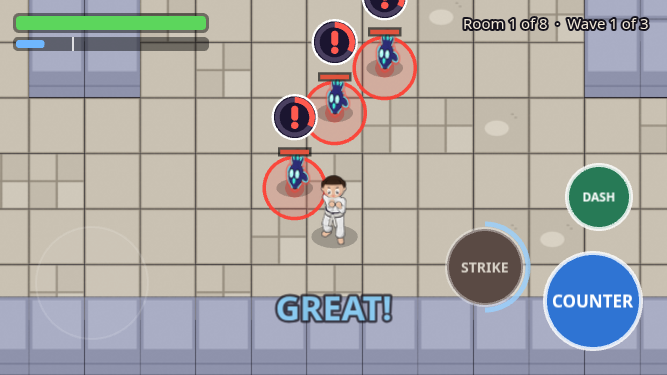
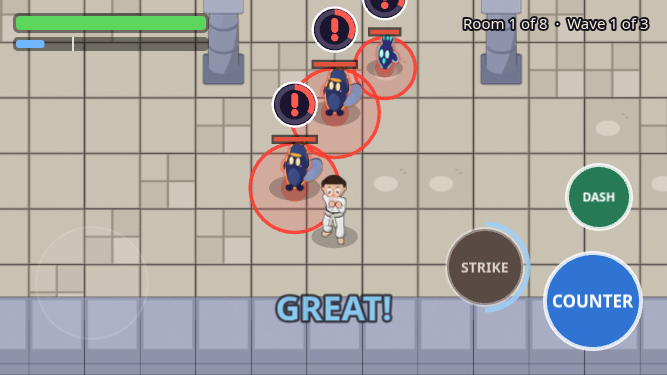
FX-GREAT QA fix: never on a ! cue (tiered placement, hide while a ! is under it, older word makes way)

diff --git a/apps/client/src/scenes/GameScene.ts b/apps/client/src/scenes/GameScene.ts
@@ -109,7 +109,7 @@ import { CONTENT } from '../game/content';
 import { homeDojo } from '../game/dojo';
 import { NAMED_PACK, NamedView } from '../game/named';
 import { reducedMotion } from '../game/motion';
-import { RATING, ratingWordTop } from '../ui/ratingWord';
+import { RATING, overlaps, ratingWordTop } from '../ui/ratingWord';
 import { THROWN_LOOK, getUpAngle, thrownPose } from '../ui/thrownPose';
 import { drawPatternTell } from '../game/patternTells';
 import { loadSave, writeSave } from '../game/save';
@@ -309,6 +309,8 @@ export class GameScene extends Phaser.Scene {
   private afterHelpUp: (() => void) | null = null;
   /** Live floating texts and pop words, cleared when the hero goes down (Q-PREM-F4). */
   private popups = new Set<Phaser.GameObjects.Text>();
+  /** FX-GREAT: popWord's words on screen; the praise ones hide while a "!" cue is under them. */
+  private words = new Set<Phaser.GameObjects.Text>();
   /** Tutorial floor (K24a): where the step flow is, the tip's Got it button, and the success line to lead the next tip. */
   private tflow: TutorialFlow | null = null;
   private gotItBtn: Phaser.GameObjects.Text | null = null;
@@ -545,6 +547,7 @@ export class GameScene extends Phaser.Scene {
       this.afterHelpUp?.();
     });
     this.popups.clear();
+    this.words.clear();
     this.heroPops = [];
     this.leaving = false;
     this.picker = null;
@@ -721,6 +724,7 @@ export class GameScene extends Phaser.Scene {
     this.frameBoss();
     this.syncEnemyViews();
     for (const e of this.world.enemies) this.drawEnemy(e, blend, now);
+    this.hideWordsOverCues();
     this.buttons.counterWindow(this.counterWindowOpen);
 
     this.buttons.update(p);
@@ -2667,18 +2671,34 @@ export class GameScene extends Phaser.Scene {
     }
     const c = this.room.chest;
     if (c && this.chestImgs[0]?.alpha) boxes.push(toScreen((c.x - 0.6) * TILE, (c.y - 0.7) * TILE, (c.x + 0.6) * TILE, (c.y + 0.6) * TILE));
-    // K24b: the wind-up cue ("!" in a ring) over an enemy about to attack.
-    for (const e of this.world.enemies) {
-      const v = e.mode === 'windup' ? this.enemyViews.get(e.id) : undefined;
-      if (!v) continue;
-      const at = this.windupCueSpot(v.container.x, v.container.y, v.top, e.def.radius * TILE);
-      boxes.push(toScreen(at.x - 22, at.y - 22, at.x + 22, at.y + 22));
-    }
+    boxes.push(...this.cueBoxes());
     if (withMessage && this.message.visible) {
       const m = this.message.getBounds();
       boxes.push({ x0: m.left, x1: m.right, y0: m.top, y1: m.bottom });
     }
     return boxes;
+  }
+
+  /** FX-GREAT: a "!" that turns up (or walks) under a praise word is never hidden; the word hides until it's clear. */
+  private hideWordsOverCues(): void {
+    if (this.words.size === 0) return;
+    const cues = this.cueBoxes();
+    for (const t of this.words) {
+      if (t.style.color !== RATING.color) continue;
+      const b = t.getBounds();
+      t.setVisible(!cues.some((c) => overlaps(c, { x0: b.left, x1: b.right, y0: b.top, y1: b.bottom })));
+    }
+  }
+
+  /** K24b: screen boxes of the wind-up cues ("!" in a ring) over enemies about to attack. */
+  private cueBoxes(): { x0: number; x1: number; y0: number; y1: number }[] {
+    return this.world.enemies.flatMap((e) => {
+      const v = e.mode === 'windup' ? this.enemyViews.get(e.id) : undefined;
+      if (!v) return [];
+      const at = this.windupCueSpot(v.container.x, v.container.y, v.top, e.def.radius * TILE);
+      const b = this.toScreen({ left: at.x - 22, right: at.x + 22, top: at.y - 22, bottom: at.y + 22 });
+      return [{ x0: b.left, x1: b.right, y0: b.top, y1: b.bottom }];
+    });
   }
 
   /** Q-PREMIUM-2 M7: true when a door label's screen box touches a loot or decoration toast. */
@@ -3402,28 +3422,26 @@ export class GameScene extends Phaser.Scene {
       .setAlpha(rating ? RATING.alpha : 1);
     this.cameras.main.ignore(t);
     // K23c: keep off the doors, the chest, the centre message, Sensei's banner and the 'Room clear!' line.
-    // FX-GREAT: and off every enemy, "!" cue (protectedBoxes has the cues), the hero and the action buttons.
+    // FX-GREAT: and off, in this order of importance, every "!" cue, enemy, other word (e.g. "Wave 2"), the hero and buttons.
     const rm = reducedMotion();
     const drift = rm ? 0 : 20;
-    const boxes = this.protectedBoxes(true);
-    for (const b of [this.senseiText?.active ? this.senseiText.getBounds() : null, this.gradeLine?.active ? this.gradeLine.getBounds() : null])
-      if (b) boxes.push({ x0: b.left, x1: b.right, y0: b.top, y1: b.bottom });
-    for (const e of this.world.enemies) {
+    const box = (b: { left: number; right: number; top: number; bottom: number }) => ({ x0: b.left, x1: b.right, y0: b.top, y1: b.bottom });
+    const enemies = this.world.enemies.flatMap((e) => {
       const v = e.mode === 'defeated' ? undefined : this.enemyViews.get(e.id);
-      if (!v) continue;
-      const b = this.toScreen(v.container.getBounds());
-      boxes.push({ x0: b.left, x1: b.right, y0: b.top, y1: b.bottom });
-    }
-    const hero = this.playerOnScreen();
-    boxes.push({ x0: hero.left, x1: hero.right, y0: hero.top, y1: hero.bottom });
-    for (const c of this.buttons.objects) {
-      if (!c.visible) continue;
-      const b = c.getBounds();
-      boxes.push({ x0: b.left, x1: b.right, y0: b.top, y1: b.bottom });
-    }
-    const top = ratingWordTop(height * 0.3 - t.height / 2, { x0: width / 2 - t.width / 2, x1: width / 2 + t.width / 2, h: t.height }, drift, boxes, 4, height - 4);
+      return v ? [box(this.toScreen(v.container.getBounds()))] : [];
+    });
+    const mine = [box(this.playerOnScreen()), ...this.buttons.objects.filter((c) => c.visible).map((c) => box(c.getBounds()))];
+    // Full size and its fade-up path, even while it is still growing in.
+    const words = [...this.words].map((o) => ({ x0: o.x - o.width / 2, x1: o.x + o.width / 2, y0: o.y - o.height / 2 - drift, y1: o.y + o.height / 2 }));
+    const rest = this.protectedBoxes(true);
+    for (const b of [this.senseiText?.active ? this.senseiText.getBounds() : null, this.gradeLine?.active ? this.gradeLine.getBounds() : null]) if (b) rest.push(box(b));
+    const top = ratingWordTop(height * 0.3 - t.height / 2, { x0: width / 2 - t.width / 2, x1: width / 2 + t.width / 2, h: t.height }, drift, [this.cueBoxes(), enemies, words, mine, rest], 4, height - 4);
     t.setY(top + t.height / 2);
+    // Only when nothing else fits: an older word under this one makes way rather than the two piling up.
+    const mineBox = { x0: width / 2 - t.width / 2, x1: width / 2 + t.width / 2, y0: top - drift, y1: top + t.height };
+    [...this.words].forEach((o, i) => overlaps(words[i], mineBox) && this.dropPopup(o));
     this.popups.add(t);
+    this.words.add(t);
     if (!rm) {
       t.setScale(0.4);
       this.tweens.add({ targets: t, scale: 1, duration: 160, ease: 'Back.Out' });
@@ -3433,6 +3451,7 @@ export class GameScene extends Phaser.Scene {
 
   private dropPopup(t: Phaser.GameObjects.Text): void {
     this.popups.delete(t);
+    this.words.delete(t);
     this.tweens.killTweensOf(t);
     t.destroy();
   }

diff --git a/packages/sim/test/fx-great.test.ts b/packages/sim/test/fx-great.test.ts
@@ -1,5 +1,5 @@
 import { describe, expect, it } from 'vitest';
-import { CUE_COLORS, RATING, ratingWordTop } from '../../../apps/client/src/ui/ratingWord';
+import { CUE_COLORS, RATING, overlaps, ratingWordTop } from '../../../apps/client/src/ui/ratingWord';
 
 const hue = (hex: string) => {
   const [r, g, b] = [1, 3, 5].map((i) => parseInt(hex.slice(i, i + 2), 16) / 255);
@@ -25,20 +25,28 @@ describe('FX-GREAT rating words', () => {
 
   const word = { x0: 280, x1: 380, h: 40 };
   it('stays at its spot when nothing is in the way', () => {
-    expect(ratingWordTop(100, word, 20, [{ x0: 0, x1: 100, y0: 90, y1: 150 }], 4, 371)).toBe(100);
+    expect(ratingWordTop(100, word, 20, [[{ x0: 0, x1: 100, y0: 90, y1: 150 }]], 4, 371)).toBe(100);
   });
 
   it('moves off an enemy or "!" box, to the nearest clear spot, drift included', () => {
     const enemy = { x0: 300, x1: 360, y0: 110, y1: 170 };
-    const top = ratingWordTop(100, word, 20, [enemy], 4, 371);
+    const top = ratingWordTop(100, word, 20, [[enemy]], 4, 371);
     expect(top + word.h < enemy.y0 || top - 20 > enemy.y1).toBe(true);
     expect(top).toBe(enemy.y0 - 6 - word.h);
   });
 
   it('keeps on screen, and stays put when no spot is clear', () => {
     const wall = { x0: 0, x1: 667, y0: 0, y1: 375 };
-    expect(ratingWordTop(100, word, 20, [wall], 4, 371)).toBe(100);
-    const top = ratingWordTop(20, word, 20, [{ x0: 300, x1: 360, y0: 10, y1: 80 }], 4, 371);
+    expect(ratingWordTop(100, word, 20, [[wall]], 4, 371)).toBe(100);
+    const top = ratingWordTop(20, word, 20, [[{ x0: 300, x1: 360, y0: 10, y1: 80 }]], 4, 371);
     expect(top - 20).toBeGreaterThanOrEqual(4);
+  });
+
+  it('#530 QA: when a banner leaves no fully clear spot, it still never lands on a "!" cue', () => {
+    const cue = { x0: 300, x1: 344, y0: 70, y1: 114 };
+    const banner = { x0: 0, x1: 667, y0: 0, y1: 60 };
+    const below = { x0: 0, x1: 667, y0: 120, y1: 371 };
+    const top = ratingWordTop(70, word, 20, [[cue], [], [banner, below]], 4, 371);
+    expect(overlaps(cue, { x0: word.x0, x1: word.x1, y0: top - 20, y1: top + word.h })).toBe(false);
   });
 });

diff --git a/apps/client/src/ui/ratingWord.ts b/apps/client/src/ui/ratingWord.ts
@@ -10,11 +10,20 @@ type Box = { x0: number; x1: number; y0: number; y1: number };
 
 /**
  * The word's top edge: as near `prefTop` as possible, with the word (plus `drift` px above it, for the
- * fade-up) clear of every box and inside [minTop, maxBottom]. Falls back to `prefTop` when nothing fits.
+ * fade-up) clear of every box and inside [minTop, maxBottom]. `tiers` go from must-avoid ("!" cues) to
+ * nice-to-avoid; when no spot clears them all, the last tier is let go first. Falls back to `prefTop`.
  */
-export function ratingWordTop(prefTop: number, w: { x0: number; x1: number; h: number }, drift: number, boxes: Box[], minTop: number, maxBottom: number): number {
-  const clear = (top: number) =>
-    top - drift >= minTop && top + w.h <= maxBottom && boxes.every((b) => b.x1 < w.x0 || b.x0 > w.x1 || b.y1 < top - drift || b.y0 > top + w.h);
-  const tops = [prefTop, ...boxes.flatMap((b) => [b.y1 + 6 + drift, b.y0 - 6 - w.h])].sort((a, b) => Math.abs(a - prefTop) - Math.abs(b - prefTop));
-  return tops.find(clear) ?? prefTop;
+export function ratingWordTop(prefTop: number, w: { x0: number; x1: number; h: number }, drift: number, tiers: Box[][], minTop: number, maxBottom: number): number {
+  for (let n = tiers.length; n > 0; n--) {
+    const boxes = tiers.slice(0, n).flat();
+    const clear = (top: number) => top - drift >= minTop && top + w.h <= maxBottom && !boxes.some((b) => overlaps(b, { x0: w.x0, x1: w.x1, y0: top - drift, y1: top + w.h }));
+    const tops = [prefTop, ...boxes.flatMap((b) => [b.y1 + 6 + drift, b.y0 - 6 - w.h])].sort((a, b) => Math.abs(a - prefTop) - Math.abs(b - prefTop));
+    const top = tops.find(clear);
+    if (top !== undefined) return top;
+  }
+  return prefTop;
+}
+
+export function overlaps(a: Box, b: Box): boolean {
+  return !(a.x1 < b.x0 || a.x0 > b.x1 || a.y1 < b.y0 || a.y0 > b.y1);
 }

diff --git a/docs/progress.md b/docs/progress.md
@@ -1247,3 +1247,4 @@ I checked every "Next" and "Not done / known limits" note. Only one is a bug: **
 - Rating words (GREAT!, GREAT xN, a Virtue or Insight name, big hit numbers) are sky blue (`apps/client/src/ui/ratingWord.ts`), never the cue's gold or red, at 75% opacity with a thinner outline. GREAT! is 34 px (was 54).
 - The pop picks the nearest clear spot to its usual place, off every enemy, "!" cue, the hero and the action buttons (as well as the doors, chest, Sensei's banner and room name it already avoided). Reduced motion: no grow and no drift, just a fade.
 - Tests: `fx-great` (5). Phone check `docs/shots/fx-great/great-verify.mjs` at 667x375 and 932x430, Reduced motion on and off, a White and an Orange profile, with an enemy on the usual spot and a crowd of three winding up (224 pass, 0 fail).
+- QA fix (#530, Tester: with the Wave 2 banner up GREAT! could sit on a "!"): placement now lets go of things in order of importance (doors and banners first, then the hero and buttons, then other words, then enemies) and never of the "!" cues. A "!" that turns up under the word later hides the word until it's clear. An older word like "Wave 2" makes way if the two would pile up. Shot check adds Wave-banner and late-"!" cases (329 pass, 0 fail; a NOTE line marks crowded cases where GREAT! touches the hero).

diff --git a/docs/decisions.md b/docs/decisions.md
@@ -1922,4 +1922,4 @@ Jay's answers to the Fable review's questions (Nov 14, board section 000) applie
 ## FX-GREAT: rating words are sky blue and step off enemies (2026-11-16)
 - Gold and red now mean only "an attack is coming" (the "!" cue). Every praise word uses one sky blue (#7fd4ff), at least 90 degrees of hue away from both, at 75% opacity so the arena shows through but it stays readable (Manager, Nov 16).
 - Big (heavy) hit numbers moved from gold to the same sky blue, for the same reason.
-- Placement: nearest clear spot to 30% height, above or below; if nothing on screen is clear it stays at its usual spot. The hero and the action buttons count as things to avoid.
+- Placement: nearest clear spot to 30% height, above or below. Must-avoid order: "!" cues (never let go), enemies, other words, the hero and buttons, then doors and banners. If even cues and enemies leave no spot it stays at its usual spot, and it hides while any "!" is under it (QA on #530). An older word it would pile onto is dropped.
